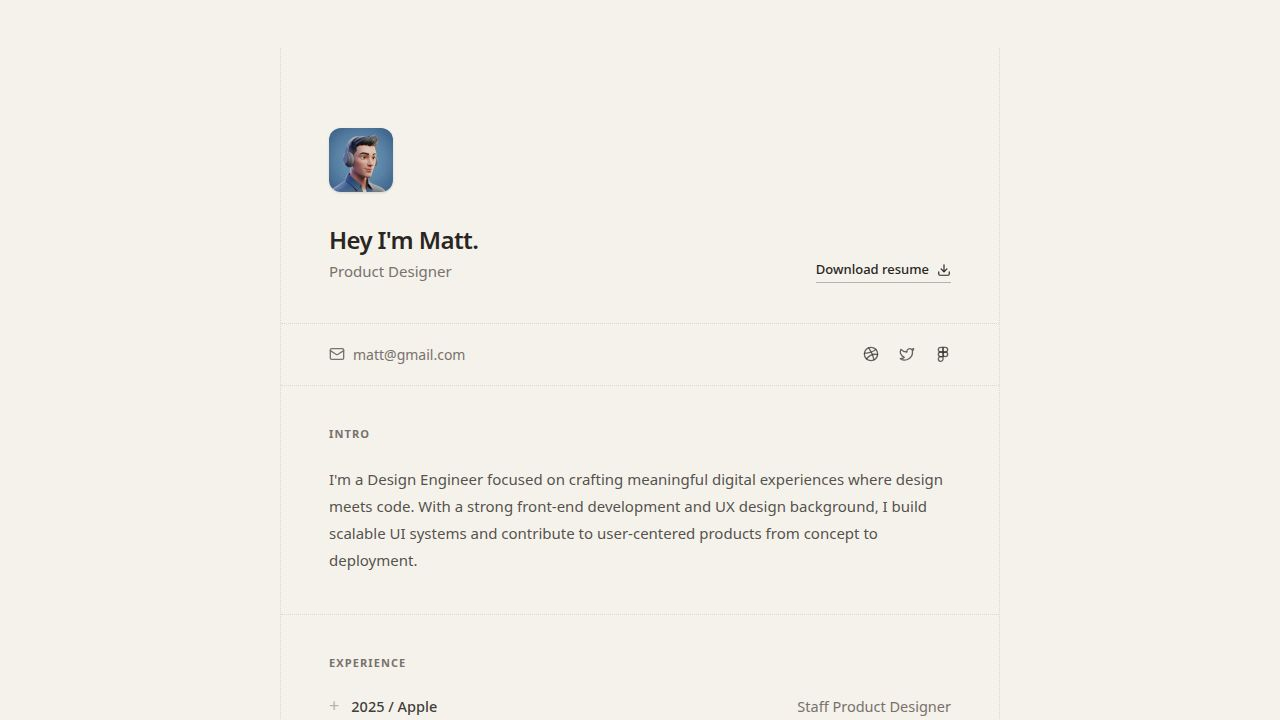
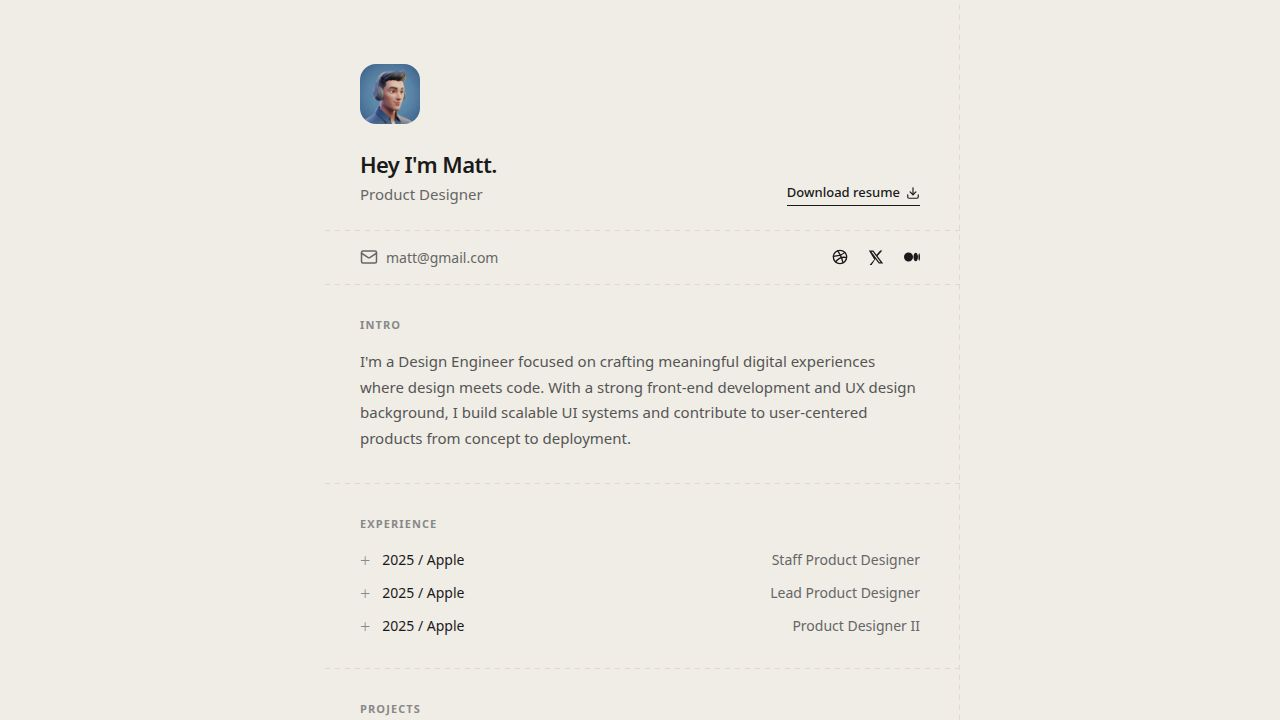
Improve visual appearance of borders and separators
Replaced standard CSS dashed borders with custom linear gradients for enhanced control over dash patterns and spacing on container borders and section separators.

Replit-Commit-Author: Agent
Replit-Commit-Session-Id: 41c2ddca-f892-4843-8796-307603cc4b14
Replit-Commit-Checkpoint-Type: full_checkpoint
Replit-Commit-Event-Id: 647b7c83-2f23-4ee7-99c0-0d143fae5ec8
Replit-Commit-Screenshot-Url: https://storage.googleapis.com/screenshot-production-us-central1/d96f21ef-389e-4c2a-817e-d66071d8fd94/41c2ddca-f892-4843-8796-307603cc4b14/3ys0GAz
Replit-Helium-Checkpoint-Created: true

diff --git a/client/src/pages/home.tsx b/client/src/pages/home.tsx
@@ -9,7 +9,27 @@ import project4 from "@/assets/images/project4.png";
 export default function Home() {
   return (
     <div className="min-h-screen bg-[#F0EDE7] flex justify-center font-sans text-[#1A1A1A] selection:bg-[#1A1A1A] selection:text-[#F0EDE7]">
-      <div className="w-full max-w-[640px] border-x border-dashed border-[#E5D7C4] relative min-h-screen bg-[#F0EDE7] flex flex-col">
+      <style dangerouslySetInnerHTML={{ __html: `
+        .dashed-border {
+          background-image: linear-gradient(to bottom, #E5D7C4 50%, rgba(255,255,255,0) 0%);
+          background-position: left;
+          background-size: 1px 10px;
+          background-repeat: repeat-y;
+        }
+        .dashed-border-right {
+          background-image: linear-gradient(to bottom, #E5D7C4 50%, rgba(255,255,255,0) 0%);
+          background-position: right;
+          background-size: 1px 10px;
+          background-repeat: repeat-y;
+        }
+        .dashed-separator {
+          background-image: linear-gradient(to right, #E5D7C4 50%, rgba(255,255,255,0) 0%);
+          background-position: top;
+          background-size: 10px 1px;
+          background-repeat: repeat-x;
+        }
+      `}} />
+      <div className="w-full max-w-[640px] dashed-border dashed-border-right relative min-h-screen bg-[#F0EDE7] flex flex-col">
         
         {/* Header Section */}
         <div className="px-6 md:px-10 pt-12 md:pt-16 pb-6">
@@ -29,7 +49,7 @@ export default function Home() {
           </div>
         </div>
 
-        <div className="w-full border-t border-dashed border-[#E5D7C4]"></div>
+        <div className="w-full h-px dashed-separator"></div>
 
         {/* Contact Section */}
         <div className="px-6 md:px-10 py-4 flex justify-between items-center">
@@ -52,7 +72,7 @@ export default function Home() {
           </div>
         </div>
 
-        <div className="w-full border-t border-dashed border-[#E5D7C4]"></div>
+        <div className="w-full h-px dashed-separator"></div>
 
         {/* Intro Section */}
         <div className="px-6 md:px-10 py-8">
@@ -62,7 +82,7 @@ export default function Home() {
           </p>
         </div>
 
-        <div className="w-full border-t border-dashed border-[#E5D7C4]"></div>
+        <div className="w-full h-px dashed-separator"></div>
 
         {/* Experience Section */}
         <div className="px-6 md:px-10 py-8">
@@ -92,7 +112,7 @@ export default function Home() {
           </div>
         </div>
 
-        <div className="w-full border-t border-dashed border-[#E5D7C4]"></div>
+        <div className="w-full h-px dashed-separator"></div>
 
         {/* Projects Section */}
         <div className="px-6 md:px-10 py-8 pb-16">
